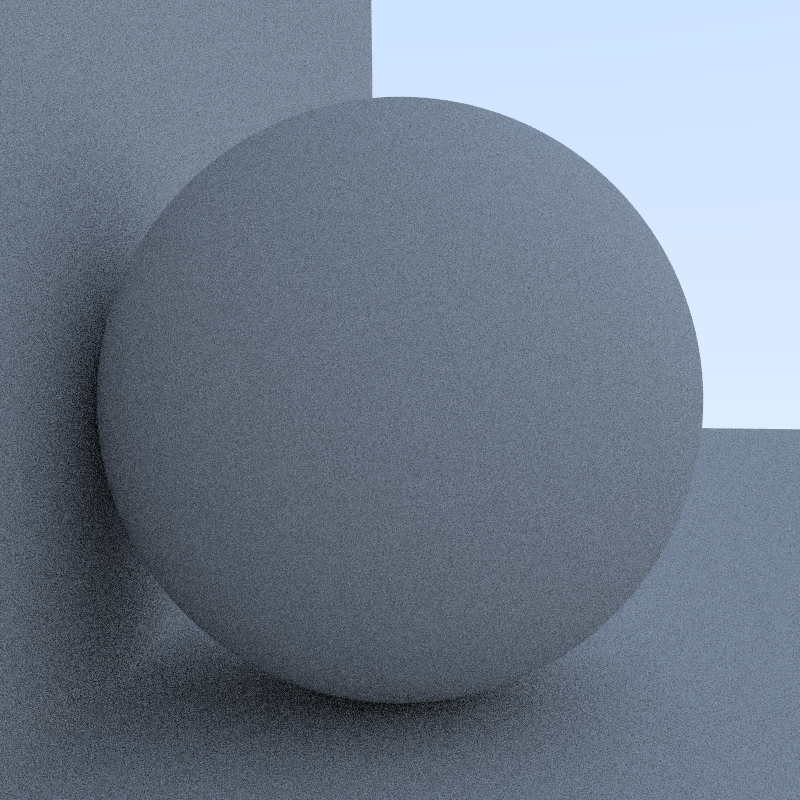
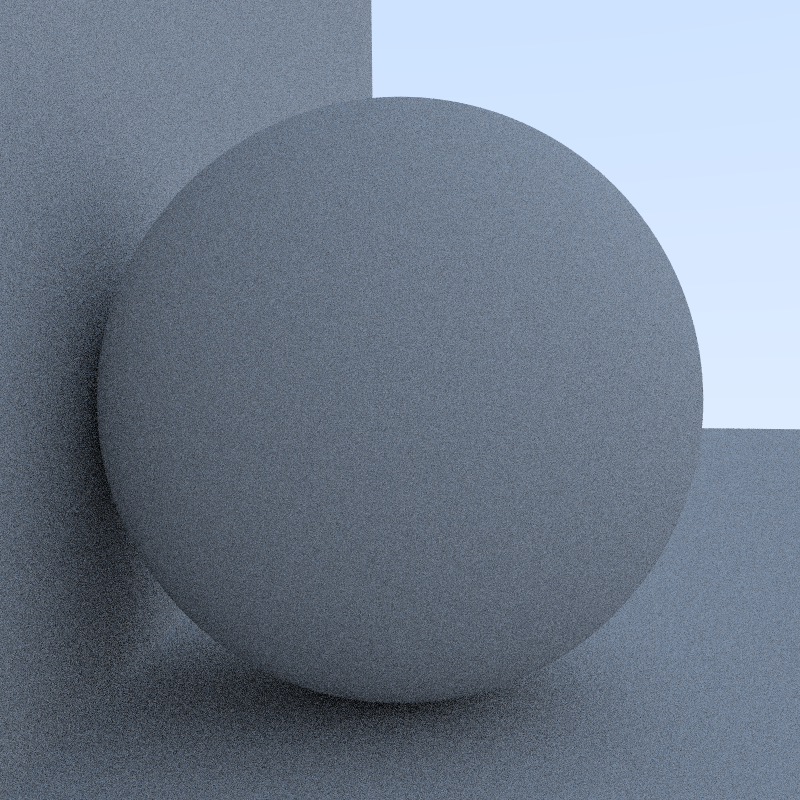
Refactor

diff --git a/src/vec3.rs b/src/vec3.rs
@@ -1,6 +1,8 @@
 use image::Rgb;
 use rand::random;
-use std::ops::{Add, AddAssign, Div, DivAssign, Mul, MulAssign, Neg, Sub, SubAssign};
+use std::{
+    array::{self}, ops::{Add, AddAssign, Div, DivAssign, Mul, MulAssign, Neg, Sub, SubAssign},
+};
 
 // Vector constants
 pub const UNIT_X: Vec3 = Vec3::new(1., 0., 0.);
@@ -73,27 +75,24 @@ impl Vec3 {
         Self::new(x, y, z)
     }
 
-    pub fn map(&self, func: impl FnMut(f64) -> f64) -> Self {
+    pub fn map(&self, func: impl Fn(f64) -> f64) -> Self {
         Self::from_array(self.coords().map(func))
     }
 
-    pub fn to_rgb(&self) -> Rgb<u8> {
-        let x = (self.x().clamp(0.0, 1.0) * 255.999) as u8;
-        let y = (self.y().clamp(0.0, 1.0) * 255.999) as u8;
-        let z = (self.z().clamp(0.0, 1.0) * 255.999) as u8;
+    pub fn operator(&self, other: &Self, func: impl Fn(f64, f64) -> f64) -> Self {
+        let coords: [f64; 3] = array::from_fn(|i| func(self.coords()[i], other.coords()[i]));
+        Self::from_array(coords)
+    }
 
-        Rgb([x, y, z])
+    pub fn to_rgb(&self) -> Rgb<u8> {
+        let coords: [u8; 3] = self.coords().map(|x| (x.clamp(0.0, 1.0) * 255.999) as u8);
+        Rgb(coords)
     }
 
     pub fn random_unit_vec() -> Vec3 {
         loop {
-            let x = random::<f64>() * 2.0 - 1.0;
-            let y = random::<f64>() * 2.0 - 1.0;
-            let z = random::<f64>() * 2.0 - 1.0;
-
-            let vec = Vec3::new(x, y, z);
+            let vec = Vec3::from_array(array::from_fn(|_| random::<f64>() * 2.0 - 1.0));
             let len_sq = vec.length_squared();
-
             if len_sq > 1e-160 && len_sq <= 1.0 {
                 return vec / len_sq.sqrt();
             }

diff --git a/src/shapes/sphere.rs b/src/shapes/sphere.rs
@@ -23,8 +23,7 @@ impl Sphere {
         }
     }
 
-    fn normal(&self, ray: &Ray, distance: f64) -> Vec3 {
-        let intercept: Point = ray.point_at(distance);
+    fn normal(&self, ray: &Ray, intercept: Point) -> Vec3 {
         let normal = (intercept - self.center) / self.radius;
         if ray.direction().dot(normal) <= 0.0 {
             normal
@@ -51,17 +50,19 @@ impl Hittable for Sphere {
             let far = (h + d.sqrt()) / a;
 
             if ray_t.surrounds(near) {
+                let intercept: Point = ray.point_at(near);
                 Some(Hit {
                     distance: near,
-                    normal: self.normal(ray, near),
+                    normal: self.normal(ray, intercept),
                     hit_point: ray.point_at(near),
                     material: self.material.clone(),
                 })
             } else if ray_t.surrounds(far) {
+                let intercept: Point = ray.point_at(far);
                 Some(Hit {
                     distance: far,
-                    normal: self.normal(ray, far),
-                    hit_point: ray.point_at(far),
+                    normal: self.normal(ray, intercept),
+                    hit_point: intercept,
                     material: self.material.clone(),
                 })
             } else {

diff --git a/src/main.rs b/src/main.rs
@@ -2,7 +2,12 @@ use std::{sync::Arc, time::Instant};
 
 use anyhow::Result;
 use raytracer::{
-    camera::Camera, interval::Interval, lambertian::Lambertian, scene::Scene, shapes::sphere::Sphere, vec3::{Color, Point, Vec3},
+    camera::Camera,
+    interval::Interval,
+    lambertian::Lambertian,
+    scene::Scene,
+    shapes::sphere::Sphere,
+    vec3::{Color, Point, Vec3},
 };
 
 fn main() -> Result<()> {
@@ -10,9 +15,14 @@ fn main() -> Result<()> {
 
     let lambertian = Arc::new(Lambertian::new(Color::new(0.5, 0.5, 0.5)));
 
-    scene.add_shape(Box::new(Sphere::new(Point::new(3.0, 0.0, 0.0), 1.0, lambertian.clone())));
-    scene.add_shape(Box::new(Sphere::new(Point::new(1.5, 0.0, -2000.0), 1999.0, lambertian.clone())));
-    scene.add_shape(Box::new(Sphere::new(Point::new(3.0, 2000.0, 0.0), -1999.0, lambertian.clone())));
+    let circle = Sphere::new(Point::new(3.0, 0.0, 0.0), 1.0, lambertian.clone());
+    scene.add_shape(Box::new(circle));
+
+    let circle = Sphere::new(Point::new(1.5, 0.0, -2000.0), 1999.0, lambertian.clone());
+    scene.add_shape(Box::new(circle));
+
+    let circle = Sphere::new(Point::new(3.0, 2000.0, 0.0), -1999.0, lambertian.clone());
+    scene.add_shape(Box::new(circle));
 
     let camera = Camera::new(
         1.0,
